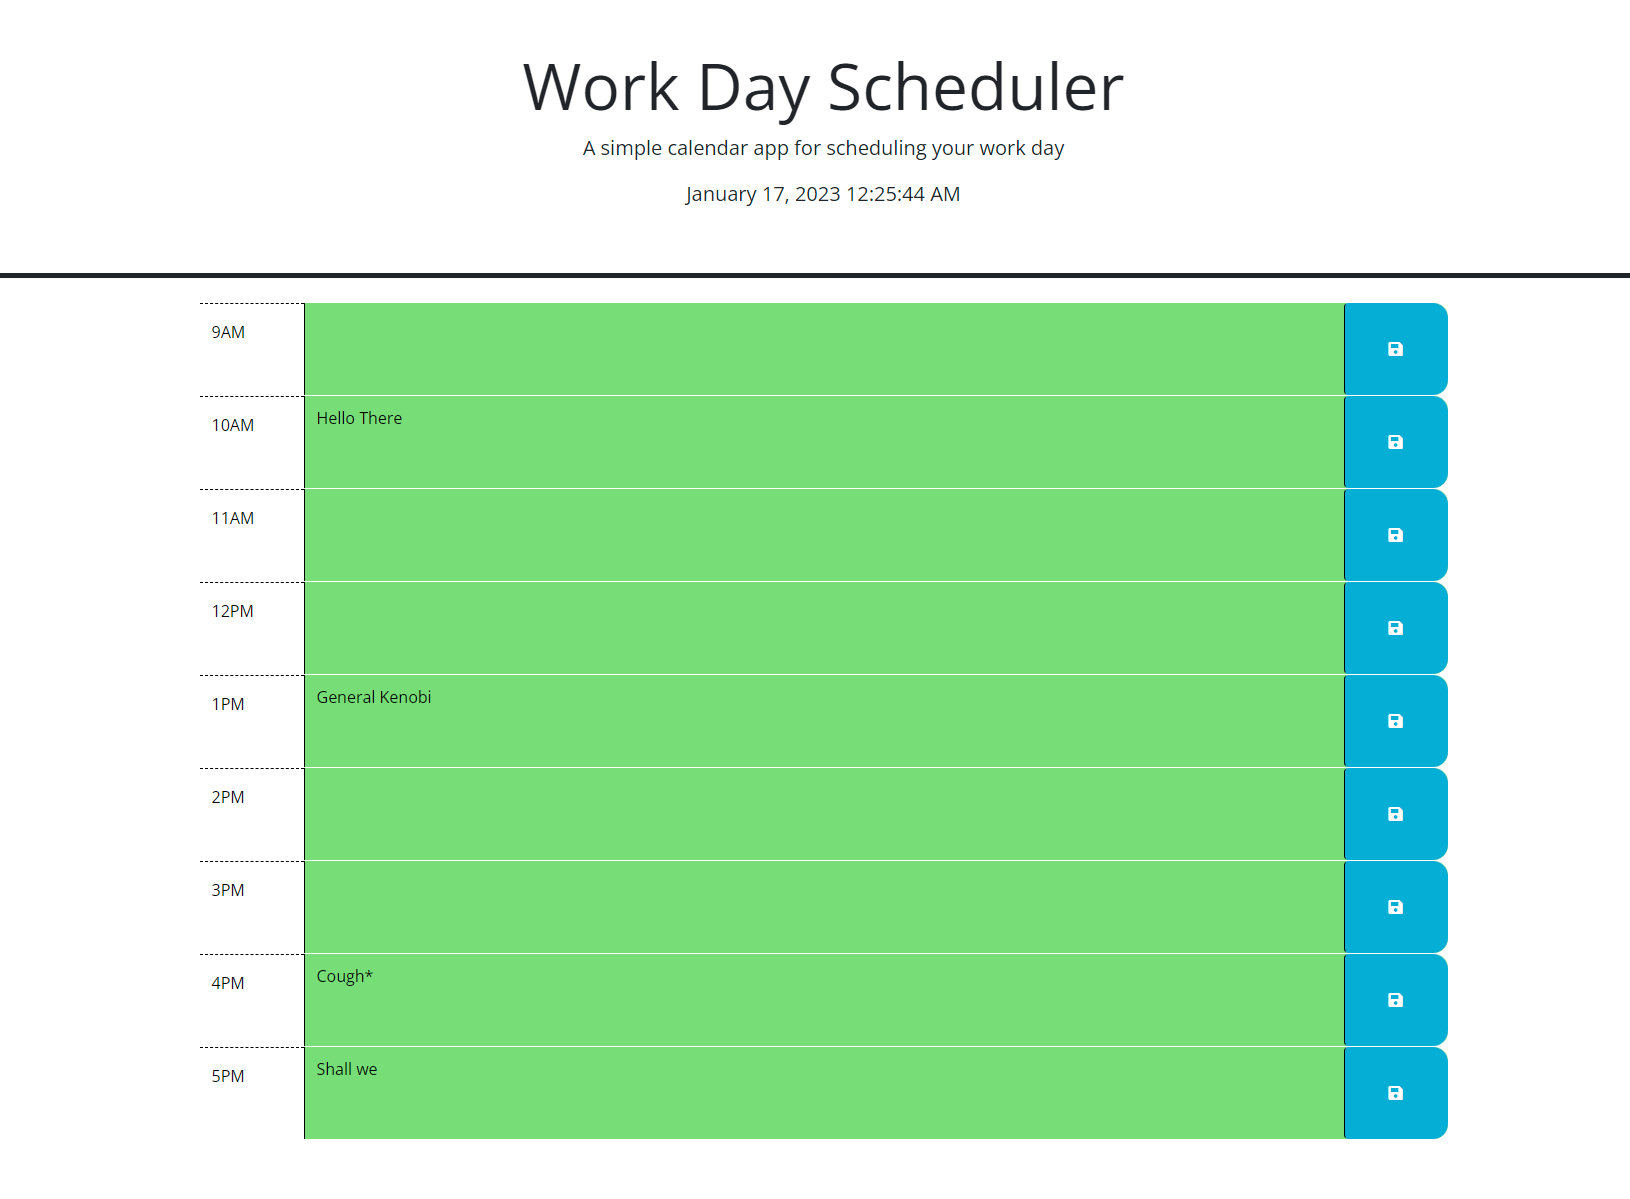
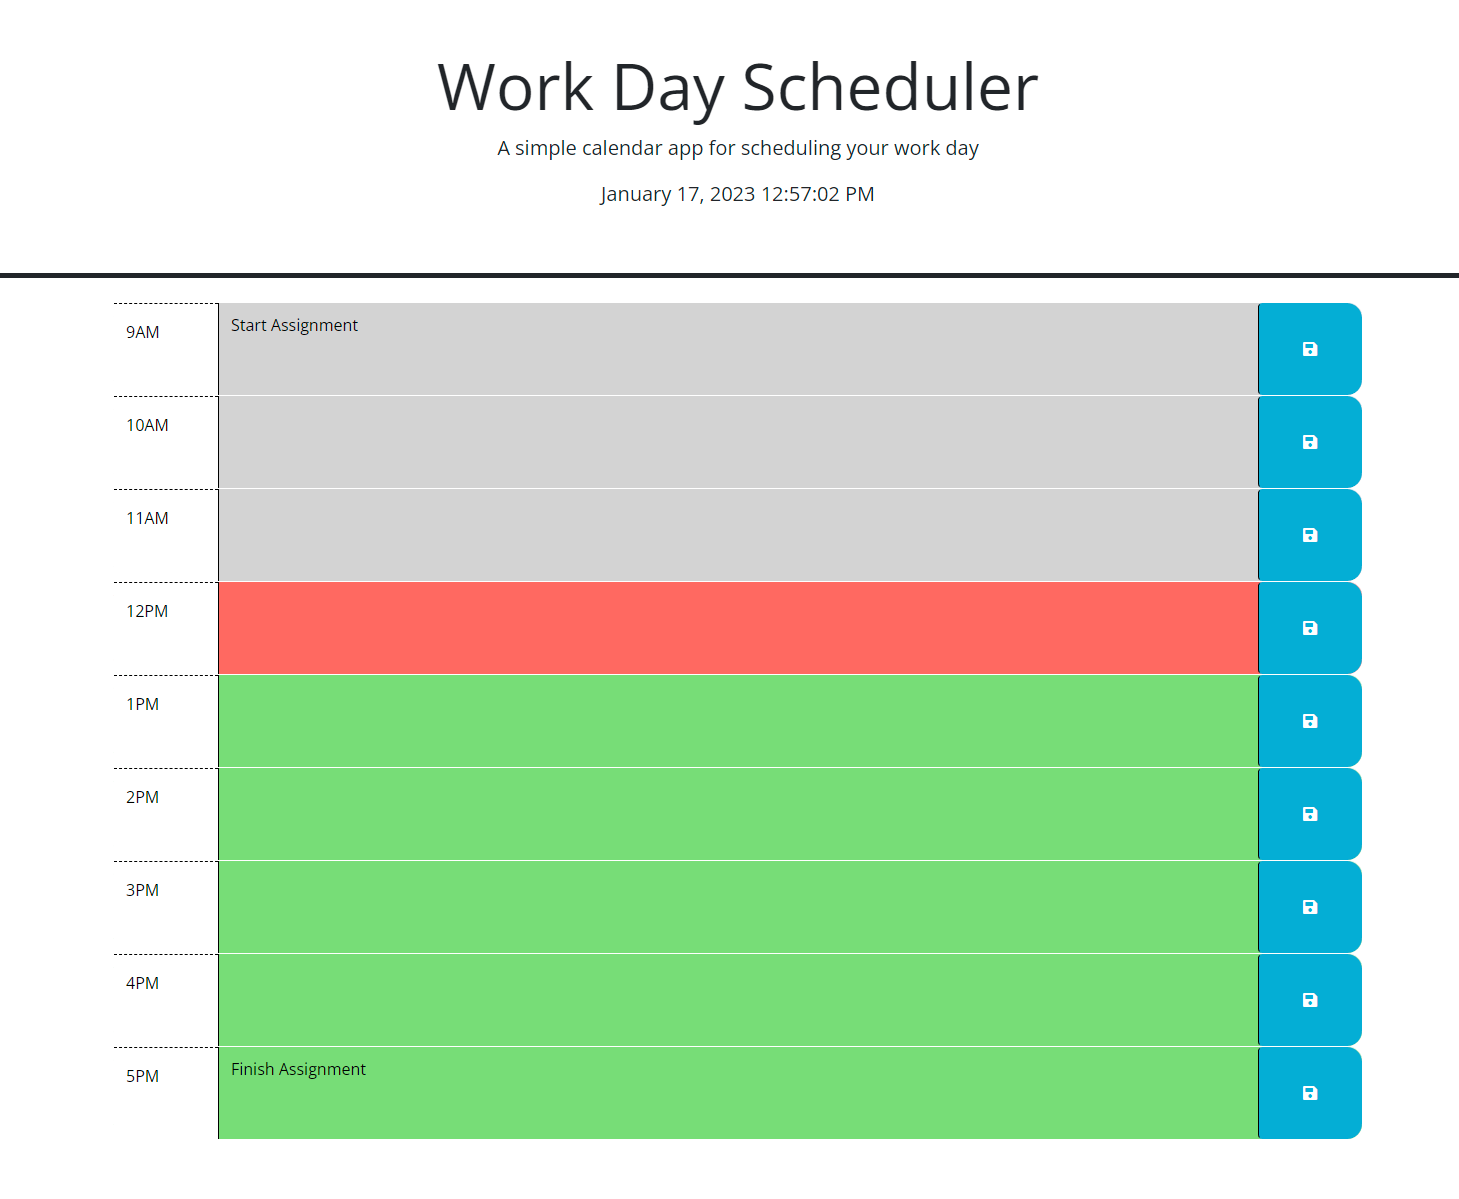
Finsihed assignment and fix Spelling errors

Changed region(s): [[0.0925, 0.2469, 0.9561, 0.9566], [0.3084, 0.0309, 0.7094, 0.1852]]

diff --git a/README.md b/README.md
@@ -36,4 +36,4 @@ I had a few minor issues when writing the code which forced me to look at other 
 ![Time Schedule Calender](./Assets/Img/lucienpep.github.io_Time-Schedule-Calender_.png)
 
 ---
-Lucien Haines UADL 2022
+Lucien Haines UADL 2023
